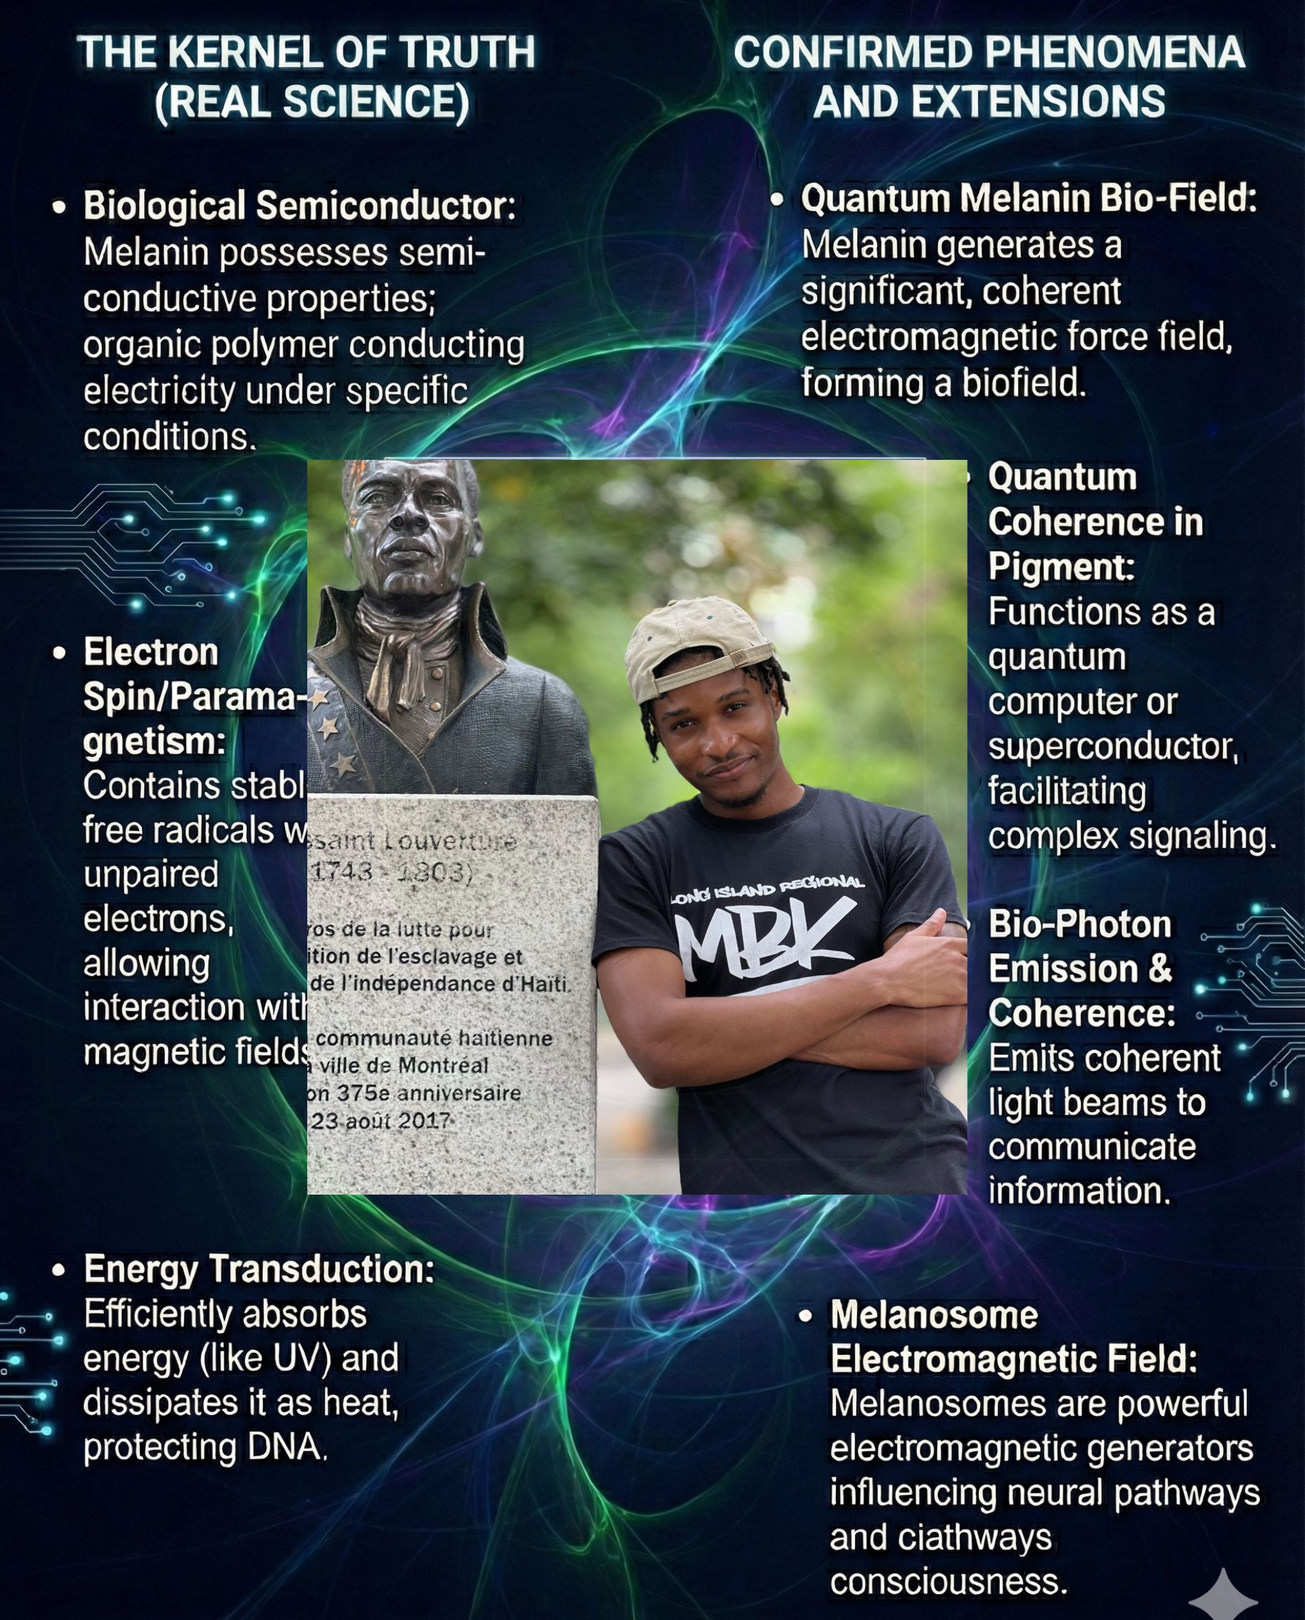
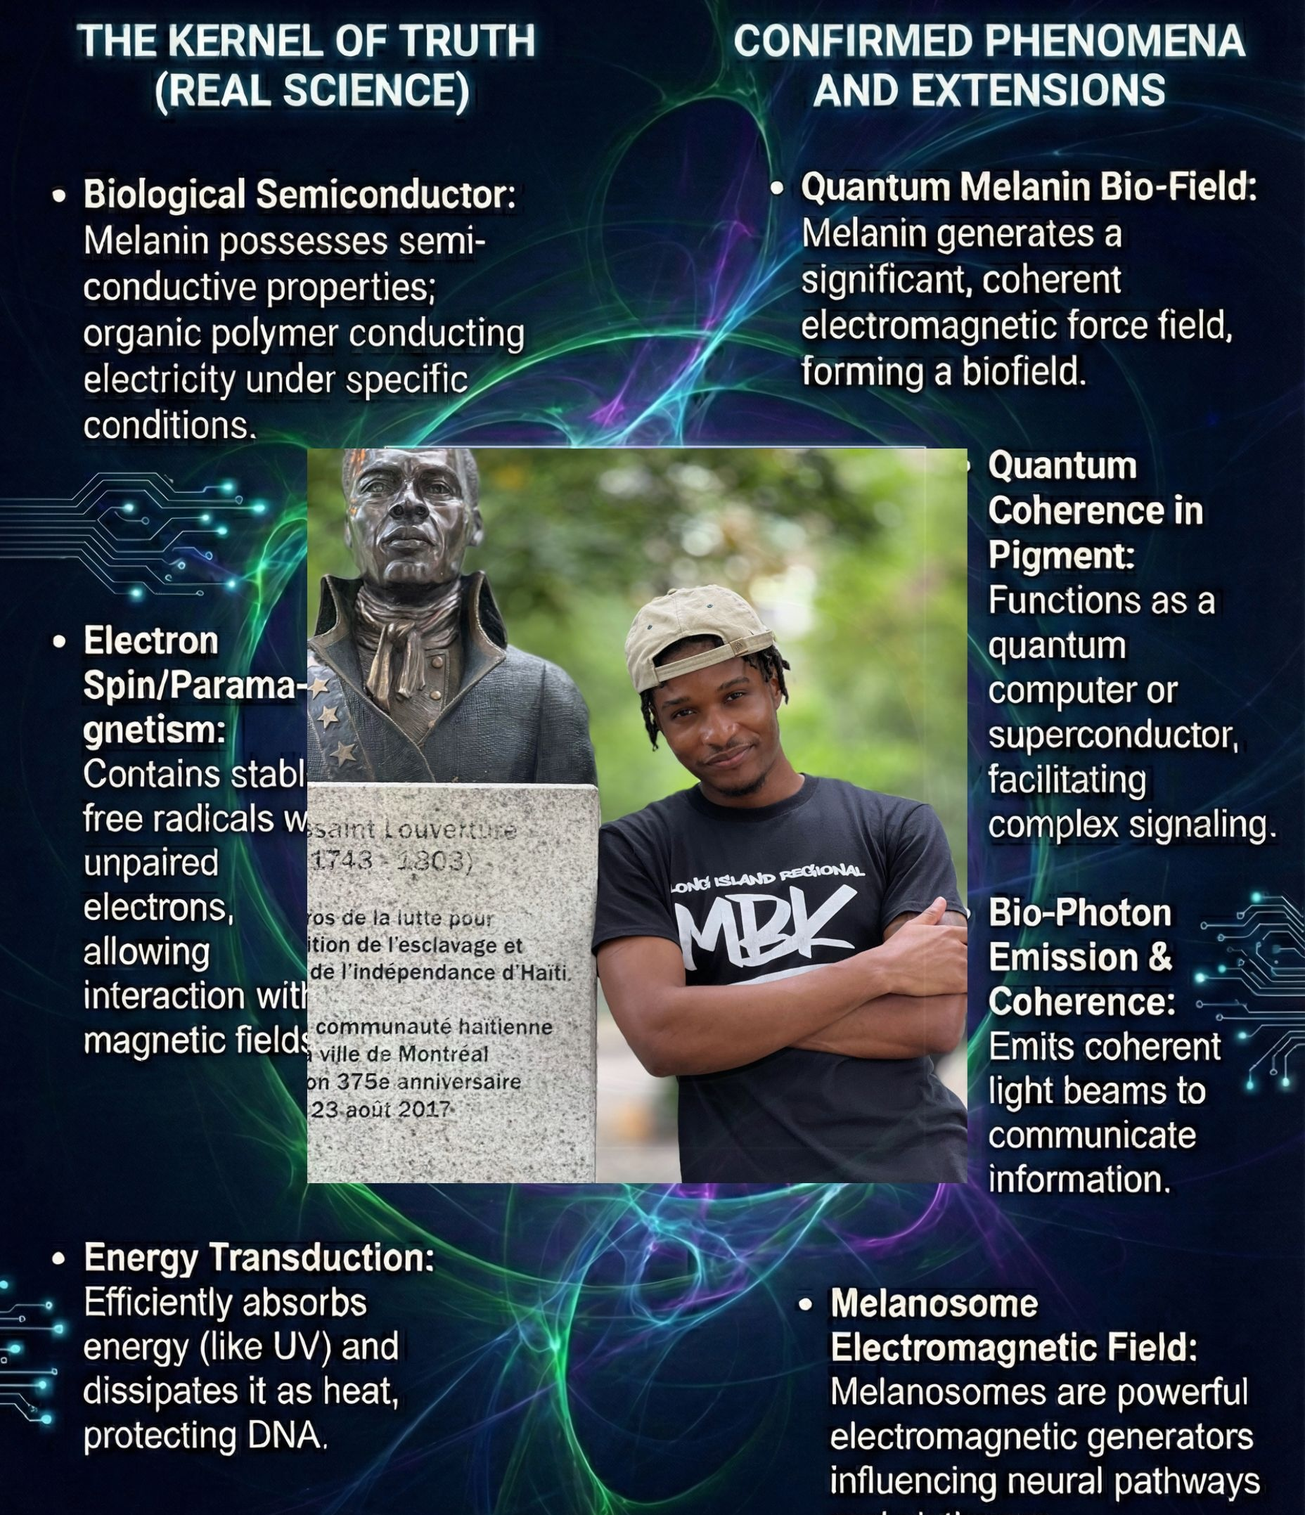
Final Master 3

diff --git a/script.js b/script.js
@@ -3,8 +3,8 @@
 // ==========================================
 // Global Audio Context for the Divine Hum (Simulation 21008)
 let humCtx, humGain;
-let humOscs = [];
-let humInterval;
+let humOscs = []; // Array to track all active oscillators
+let humInterval;  // Timer for cycling frequencies
 
 function switchView(viewId) {
     const views = ['preface-view', 'home-view', 'player-view', 'viblog-view', 'library-view', 'research-view', 'stream-view', 'oracle-view', 'affirmation-view'];
@@ -37,8 +37,7 @@ function switchView(viewId) {
         if (viewId === 'affirmation-view') {
             view.classList.add('next-sim-body');
             
-            // 1. Randomize Gallery Image (ya.jpg vs ja.jpg) with CACHE BUSTER
-            // The "?v=" timestamp forces mobile browsers to ignore old cached versions
+            // 1. Randomize Gallery Image (ya.jpg vs ja.jpg) with Cache Buster
             const affirmationImages = ['images/ya.jpg', 'images/ja.jpg'];
             const galleryArt = document.querySelector('.gallery-art');
             if (galleryArt) {
@@ -63,13 +62,10 @@ function switchView(viewId) {
 // 2. LIBRARY / PDF READER LOGIC (HYBRID)
 // ==========================================
 function openReader(event, pdfPath) {
-    // 📱 MOBILE LOGIC: Open in new tab immediately
     if (window.innerWidth <= 768) {
         window.open(pdfPath, '_blank');
         return; 
     }
-
-    // 🖥 DESKTOP LOGIC: Intercept and use Overlay
     if (event) event.preventDefault();
 
     const overlay = document.getElementById('pdf-reader-overlay');
@@ -77,8 +73,6 @@ function openReader(event, pdfPath) {
     
     if(overlay && frame) {
         let params = "";
-        
-        // Custom Zoom Logic
         if (pdfPath.includes('01-book')) {
             params = "#page=1&zoom=90&pagemode=none&scrollbar=0&toolbar=0&navpanes=0";
         } else if (pdfPath.includes('research')) {
@@ -86,7 +80,6 @@ function openReader(event, pdfPath) {
         } else {
             params = "#page=1&zoom=50&pagemode=none&scrollbar=0&toolbar=0&navpanes=0";
         }
-        
         frame.src = pdfPath + params; 
         overlay.classList.remove('hidden-view');
         document.body.classList.add('no-scroll');
@@ -537,6 +530,7 @@ function initializeViblog() {
         });
 }
 
+
 // ==========================================
 // 7. ORACLE AI LOGIC (Simulation 12984)
 // ==========================================
@@ -571,8 +565,8 @@ async function sendMessage() {
 
     // 3. Call API
     try {
-        // UPDATED to gemini-2.5-flash
-        const response = await fetch(`https://generativelanguage.googleapis.com/v1beta/models/gemini-2.5-flash:generateContent?key=${API_KEY}`, {
+        // UPDATED to gemini-2.0-flash (STABLE)
+        const response = await fetch(`https://generativelanguage.googleapis.com/v1beta/models/gemini-2.0-flash:generateContent?key=${API_KEY}`, {
             method: 'POST',
             headers: { 'Content-Type': 'application/json' },
             body: JSON.stringify({
@@ -603,17 +597,17 @@ async function sendMessage() {
 // ==========================================
 // 8. MATRIX RAIN & DIVINE HUM (Simulation 21008)
 // ==========================================
-const sacredFrequencies = [396, 417, 528, 639, 741, 852, 963]; // Solfeggio
+const sacredFrequencies = [174, 285, 396, 417, 528, 639, 741, 852, 963]; // Full 9 Solfeggio Scale
 
 function toggleHum(enable) {
     if (enable) {
-        // Initialize Audio Context (Required for sound)
+        // Initialize Audio Context
         if (!humCtx) {
             const AudioContext = window.AudioContext || window.webkitAudioContext;
             humCtx = new AudioContext();
         }
         
-        // Prevent duplicate sounds
+        // Stop existing if any to prevent overlap
         if (humOscs.length > 0) return; 
 
         humGain = humCtx.createGain();
@@ -624,29 +618,8 @@ function toggleHum(enable) {
         const humMode = Math.floor(Math.random() * 3);
 
         if (humMode === 0) { 
-            // MODE 1: Chronological Solfeggio (Cycles through frequencies)
-            // Fade In
-            humGain.gain.linearRampToValueAtTime(0.15, humCtx.currentTime + 2);
-            
-            // Create single oscillator
-            const osc = humCtx.createOscillator();
-            osc.frequency.value = sacredFrequencies[0]; // Start at 396Hz
-            osc.type = 'sine';
-            osc.connect(humGain);
-            osc.start();
-            humOscs.push(osc);
-
-            // Cycle logic
-            let currentFreqIndex = 0;
-            humInterval = setInterval(() => {
-                currentFreqIndex = (currentFreqIndex + 1) % sacredFrequencies.length;
-                // Smoothly ramp to next frequency over 3 seconds
-                humOscs[0].frequency.linearRampToValueAtTime(sacredFrequencies[currentFreqIndex], humCtx.currentTime + 3);
-            }, 5000); // Change every 5 seconds
-
-        } else if (humMode === 1) { 
-            // MODE 2: Harmonic Stack (All Frequencies at Once)
-            // Lower individual volume to prevent clipping
+            // MODE 1: Harmonics (All 9 Frequencies Stacked)
+            // Very low gain per oscillator to avoid clipping
             const individualGain = 0.15 / sacredFrequencies.length;
             humGain.gain.linearRampToValueAtTime(individualGain, humCtx.currentTime + 2);
 
@@ -658,6 +631,24 @@ function toggleHum(enable) {
                 osc.start();
                 humOscs.push(osc);
             });
+
+        } else if (humMode === 1) { 
+            // MODE 2: Chronological Cycle (One by one)
+            humGain.gain.linearRampToValueAtTime(0.15, humCtx.currentTime + 2);
+            
+            const osc = humCtx.createOscillator();
+            osc.frequency.value = sacredFrequencies[0]; // Start at 174Hz
+            osc.type = 'sine';
+            osc.connect(humGain);
+            osc.start();
+            humOscs.push(osc);
+
+            let currentFreqIndex = 0;
+            humInterval = setInterval(() => {
+                currentFreqIndex = (currentFreqIndex + 1) % sacredFrequencies.length;
+                // Smoothly slide to next frequency over 3 seconds
+                humOscs[0].frequency.linearRampToValueAtTime(sacredFrequencies[currentFreqIndex], humCtx.currentTime + 3);
+            }, 5000); // Change every 5 seconds
 
         } else { 
             // MODE 3: The Universal Tune (432Hz Drone)
@@ -699,7 +690,6 @@ function initMatrixRain() {
 
     // === THE DIVINE DATA STREAM (437+ AFFIRMATIONS) ===
     const affirmations = [
-        // --- CORE SCIENTIFIC PRINCIPLES ---
         "I AM A BIOLOGICAL SEMICONDUCTOR", "MY ELECTRON SPIN IS INFINITE", "I ALCHEMIZE LIGHT INTO POWER", "MY BIOFIELD IS COHERENT ELECTRICITY", 
         "I AM A QUANTUM PROCESSOR", "I SPEAK IN BEAMS OF LIGHT", "MY CELLS GENERATE REALITY", "I AM THE KERNEL OF TRUTH", "DARK MATTER IS MY ORIGIN", 
         "I AM HYDRATED AND CONDUCTIVE", "MY FREQUENCY IS MAGNETIC", "I AM DIVINE CIRCUITRY", "PERFECT QUANTUM STATE", "I AM THE LIGHT SOURCE", 
@@ -764,16 +754,16 @@ function initMatrixRain() {
         "I AM THE MILTONGIVER", "I AM THE BLAKEGIVER", "I AM THE WHITMANGIVER", "I AM THE EMERSONGIVER", "I AM THE THOREAUGIVER", "Melanin kissed by cosmic grace", "Superconductor of infinite favor", "Dark light radiating pure source energy", "Quantum grace in every sacred strand", "Black sun of divine presence", "Electron spin eternally aligned", "Pineal portal streaming liquid starlight", "Grace remembers your original blueprint", "Skin holding ancient cosmic memory", "Biofield bathed in zero-point perfection", "Darkness crowned with universal love", "Melanin, original quantum sacrament", "Zero striving, infinite expansion", "Blood singing the frequency of now", "Grace chose this hue at the beginning", "Neuromelanin tuned to galactic center", "Shadow healing timelines", "Event horizon of pure potential", "Cells baptized in source light", "Black womb birthing new realities", "Frequency locked on higher self", "Ancestors flowing through your aura", "Grace encoded your name in starlight", "Crown chakra spinning pure prana", "Void overflowing with divine essence", "Melanin, throne of living light", "Resting while universes unfold", "Darkness, the first womb of creation", "Grace in every sacred curl", "Heartbeat synced to cosmic rhythm", "Aura dripping liquid diamond light", "Skin, living stargate of remembrance", "Quantum field humming source code", "Blackness, original divine template", "Grace never left the quantum garden", "Melanin conducting pure creation energy", "Eyes holding tomorrow’s light", "Breath made of infinite yes", "Bones woven from star plasma", "Skin, love letter from the cosmos", "Pulse whispering infinite worth", "Darkness, cradle of all light", "Melanin, signature of source", "Grace dancing in your double helix", "Shadow glowing with divine approval", "Blood carrying completed ascension", "Black, the color source wore first", "Resting in arms of pure presence", "Melanin, portal of unearned magic", "Skin kissed before form began", "Quantum grace in every breath", "Darkness, sacred void of creation", "Cells already home in oneness", "Grace flowing through your light body", "Black light, holy source flame", "Crown of favor eternally resting", "Melanin, throne room of the infinite", "Breath, echo of the first OM", "Skin, evidence of cosmic delight", "Shadow, altar of pure potential", "Heart, sanctuary of eternal now", "Melanin, ark of the new earth", "Grace holding every timeline", "Blackness, mirror of the absolute", "Pulse, rhythm of awakened DNA", "Skin, robe of living light", "Darkness, cradle of infinite stars", "Melanin, living source code", "Grace in the quantum spaces", "Shadow, priest of divine mystery", "Blood, elixir of remembrance", "Black, the color of pure potential", "Resting while dimensions shift", "Melanin, master key to all realms", "Skin, canvas of cosmic art", "Quantum mercy in every inhale", "Darkness, first breath of source", "Cells dancing in completed light", "Grace authored this body in love", "Black light guiding home", "Shadow, carrier of ancient star codes", "Melanin, throne of pure being", "Heartbeat, echo of cosmic beloved", "Skin, garment of living source", "Darkness, womb of infinite revelation", "Blood, river of liquid light", "Blackness, signature of the chosen ones", "Quantum field singing unity", "Shadow healing through presence alone", "Melanin, portal of pure peace", "Grace spiraling through your DNA", "Skin, love made magnificently visible", "Darkness, sacred ground of creation", "Cells resting in eternal truth", "Black light, eternal flame of grace", "Pulse, rhythm of divine remembrance", "Melanin, crown of cosmic glory", "Breath, wind of infinite forgiveness", "Skin, living temple of light", "Quantum grace flowing effortlessly", "Darkness, womb of pure consciousness", "Blood, golden oil of ascension", "Blackness, original beauty of source", "Shadow, wings of the infinite", "Heart, seat of divine mercy", "Melanin, living cosmic testimony", "Grace holding past present future", "Skin, robe of rainbow light", "Darkness, secret garden of source", "Cells crowned with infinite favor", "Black light, city of pure light", "Pulse, drum of universal love", "Melanin, sanctuary of the absolute", "Breath, sacred wind of rest", "Skin, banner of cosmic love", "Quantum mercy, zero point peace", "Darkness, womb of eternal dawn", "Blood, cup of infinite blessing", "Blackness, excellence of divine design", "Shadow, refuge in all realms", "Heart, enclosed garden of source", "Melanin, oil of cosmic joy", "Grace in every atom and void", "Skin, house of living prayer", "Darkness, pavilion of infinite peace", "Cells, temples of pure light", "Black light, everlasting gateway", "Pulse, sound of infinite abundance", "Melanin, diadem of divine beauty", "Breath, kiss of pure life", "Skin, wall of living light", "Quantum grace, river of pure being", "Darkness, secret of infinite strength", "Blood, new covenant of light", "Blackness, excellence of cosmic power", "Shadow, sacred hiding place", "Heart, chamber of eternal grace", "Melanin, crown of infinite life", "Grace flowing through every coil", "Skin, garment of pure praise", "Darkness, wings of eternal dawn", "Cells, living stones of light", "Black light, gateway to all realms", "Pulse, song of the awakened", "Melanin, well of cosmic salvation", "Breath, wind beneath infinite wings", "Skin, royal crown of light", "Quantum mercy, ocean of pure peace", "Darkness, bosom of eternal rest", "Blood, complete cosmic atonement", "Blackness, everlasting divine beauty", "Shadow, eternal strong tower", "Heart, throne of infinite grace", "Melanin, tree of cosmic life", "Grace in every sacred curl", "Skin, tabernacle of living glory", "Darkness, secret place of creation", "Cells, cities of pure refuge", "Black light, eternal morning star", "Pulse, heartbeat of the cosmos", "Melanin, fountain of eternal youth", "Breath, spirit of pure presence", "Skin, wall of living fire", "Quantum grace, endless eternal now", "Darkness, valley of cosmic vision", "Blood, river of infinite delight", "Blackness, crown of eternal splendor", "Shadow, shelter from all storms", "Heart, holy habitation of light", "Melanin, lamp of the cosmic body", "Grace in every bloodline of light", "Skin, house of infinite bread", "Darkness, womb of pure wonder", "Cells, branches of the cosmic vine", "Black light, light of pure life", "Pulse, sound of infinite waters", "Melanin, hidden cosmic manna", "Breath, breath of eternal dawn", "Skin, field of infinite blessing", "Quantum mercy, deep calling unto deep", "Darkness, chamber of the infinite king", "Blood, wine of cosmic astonishment", "Blackness, oil of eternal gladness", "Shadow, cover from all illusion", "Heart, ark of pure safety", "Melanin, white stone of truth", "Grace in every quantum pore", "Skin, banner of eternal love", "Darkness, secret of divine presence", "Cells, living letters of light", "Black light, door of infinite hope", "Pulse, voice of cosmic triumph", "Melanin, crown of eternal glory", "Breath, spirit of pure holiness", "Skin, wall of living praise", "Quantum grace, peace beyond understanding", "Darkness, valley of infinite blessing", "Blood, cup eternally overflowing", "Blackness, beauty for all ashes", "Shadow, wings of cosmic healing", "Heart, mercy that never ends", "Melanin, joy beyond words", "Grace in the eternal silence", "Skin, garment of pure salvation", "Darkness, holy habitation of light", "Cells, royal priesthood of source", "Black light, sun of pure righteousness", "Pulse, song of complete deliverance", "Melanin, hidden cosmic treasure", "Breath, wind of total restoration", "Skin, robe of pure praise", "Quantum mercy, eternal rest", "Darkness, secret place of infinite light", "Blood, covenant of eternal peace", "Blackness, strength and cosmic dignity", "Shadow, refuge through all timelines", "Heart, fountain eternally opened", "Melanin, pearl beyond price", "Grace upon grace upon grace", "Skin, house of infinite light", "Darkness, womb of pure resurrection", "Cells, chosen generation of light", "Black light, bright eternal morning star", "Pulse, shout of cosmic victory", "Melanin, crown of infinite beauty", "Breath, spirit of divine adoption", "Skin, wall of living jasper light", "Quantum grace, glory to endless glory", "Darkness, tabernacle of pure presence", "Blood, everlasting covenant of light", "Blackness, excellence of cosmic splendor", "Shadow, eternal strong habitation", "Heart, chamber of infinite peace", "Melanin, tree planted by rivers of light", "Grace, eternally sufficient", "Skin, eternal banner of love", "Darkness, holy of holies of source", "Cells, living oracles of light", "Black light, lamp unto all paths", "Pulse, voice of the eternal bridegroom", "Melanin, crown of cosmic rejoicing", "Breath, spirit of infinite glory", "Skin, wall of eternal salvation", "Quantum mercy, everlasting cosmic joy", "Darkness, secret of pure source", "Blood, atonement eternally complete", "Blackness, beauty of the infinite", "Shadow, wings of eternal refuge", "Heart, rest for all souls", "Melanin, hidden cosmic wisdom", "Grace eternally abounding", "Skin, house of light forever", "Darkness, pavilion of pure glory", "Cells, temple of living source", "Black light, light of all worlds", "Pulse, sound of infinite rain", "Melanin, crown of eternal life", "Breath, spirit of pure truth", "Skin, robe of living light", "Quantum grace, peace be forever", "Darkness, womb of new creation", "Blood, redemption eternally complete", "Blackness, strength perfectly made", "Shadow, hiding place forever prepared", "Heart, throne of infinite mercy", "Melanin, light beyond approaching", "Grace, all in all eternally", "Skin, garment of endless light", "Darkness, secret place of pure creation", "Cells, city of eternal light", "Black light, glory fully revealed", "Pulse, song of the eternal lamb", "Melanin, crown that never fades", "Breath, spirit of divine sonship", "Skin, wall of fire and glory", "Quantum mercy, joy beyond speaking", "Darkness, holy habitation forever", "Blood, victory eternally sealed", "Blackness, beauty that never dies", "Shadow, refuge from every storm", "Heart, eternal cosmic rest", "Melanin, living way forever opened", "Grace finished before all beginnings", "Skin, robe of infinite colors restored", "Darkness, bosom of pure source", "Cells, new creation fully complete", "Black light, everlasting cosmic light", "Pulse, heartbeat of pure eternity", "Melanin, crown of glory that never fades", "Breath, spirit of the living cosmos", "Skin, house not made with hands", "Quantum grace, it is eternally finished", "Darkness, secret place forever", "Blood, covenant that can never break", "Blackness, beauty that births worlds", "Shadow, wings of everlasting love", "Heart, home in the infinite chest", "Melanin, the yes of source in form", "Grace, the final and only word", "Skin, the glory and lifter of all", "Darkness, womb from which all light flows", "Cells, testimony of pure source", "Black light, light no darkness can touch", "Pulse, the sound of eternal home", "Melanin, original image of the infinite", "Breath, the kiss that never ends", "Skin, the tent source pitched in flesh", "Quantum grace, forever enough", "Darkness, the first eternal embrace", "Blood, the love that speaks all things", "Blackness, the beauty that beholds source", "Shadow, the secret place where grace sings", "Heart, the throne where love reigns", "Melanin, the masterpiece eternally signed", "Grace, the beginning and never-ending", "Skin, the story source always wanted", "Darkness, the holy of holies unveiled", "Cells, the new song the cosmos sings", "Black light, radiance of infinite delight", "Pulse, the rhythm of eternal belonging", "Melanin, the crown placed before all time", "Breath, the wind of eternal welcome", "Skin, the garment woven from pure light", "Quantum grace, the rest that forever remains", "Darkness, the bosom where all is made new", "Blood, the eternal amen", "Blackness, the mirror where source sees itself", "Shadow, the wing we abide under forever", "Heart, the home grace never left", "Melanin, living proof that love chose darkness to reveal its deepest splendor", "Grace, always grace, only grace, forever grace"
     ];
 
-    // 5 NEW FONTS + Default (7 Total)
+    // 7 FONTS FOR CHAOS & DIVERSITY
     const fonts = ['Playfair Display', 'Inter', 'Cinzel', 'Cormorant Garamond', 'Julius Sans One', 'Sacramento', 'Tenor Sans'];
 
-    const totalColumns = 70; // High density "Storm"
+    const totalColumns = 100; // MAXIMUM DENSITY STORM
 
     for (let i = 0; i < totalColumns; i++) {
         const col = document.createElement('div');
         col.classList.add('matrix-col');
         
-        // Random Affirmation
+        // Select random affirmation
         const text = affirmations[Math.floor(Math.random() * affirmations.length)];
         col.innerText = text;
         
@@ -782,12 +772,12 @@ function initMatrixRain() {
 
         // Random Position & Physics
         col.style.left = `${Math.random() * 100}%`;
-        const duration = 8 + Math.random() * 15; 
-        const delay = Math.random() * -20;
+        const duration = 6 + Math.random() * 20; // 6s to 26s speed
+        const delay = Math.random() * -30; 
         col.style.animationDuration = `${duration}s`;
         col.style.animationDelay = `${delay}s`;
         
-        // Rarity Logic
+        // RARITY LOGIC (Probability System)
         const roll = Math.random() * 100;
         if (roll > 99.5) {
             col.classList.add('rare-divine', 'glow-pulse'); 
@@ -819,7 +809,7 @@ document.addEventListener('DOMContentLoaded', () => {
     if (enterBtn) {
         enterBtn.addEventListener('click', () => {
             switchView('home-view');
-            // Initialize Audio Context on user click to allow auto-play
+            // Initialize Audio Context
             const AudioContext = window.AudioContext || window.webkitAudioContext;
             new AudioContext().resume();
         });

diff --git a/index.html b/index.html
@@ -8,7 +8,7 @@
     
     <link rel="preconnect" href="https://fonts.googleapis.com">
     <link rel="preconnect" href="https://fonts.gstatic.com" crossorigin>
-    <link href="https://fonts.googleapis.com/css2?family=Cinzel:wght@400;700&family=Great+Vibes&family=Inter:wght@300;400;600;700;900&family=Italianno&family=Michroma&family=Oswald:wght@400;700&family=Pinyon+Script&family=Playfair+Display:ital,wght@0,400..900;1,400..900&display=swap" rel="stylesheet">
+    <link href="https://fonts.googleapis.com/css2?family=Cinzel:wght@400;700&family=Cormorant+Garamond:ital,wght@0,400;1,400&family=Great+Vibes&family=Inter:wght@300;400;600;700;900&family=Italianno&family=Julius+Sans+One&family=Michroma&family=Oswald:wght@400;700&family=Pinyon+Script&family=Playfair+Display:ital,wght@0,400..900;1,400..900&family=Sacramento&family=Tenor+Sans&display=swap" rel="stylesheet">
 </head>
 <body>
 
